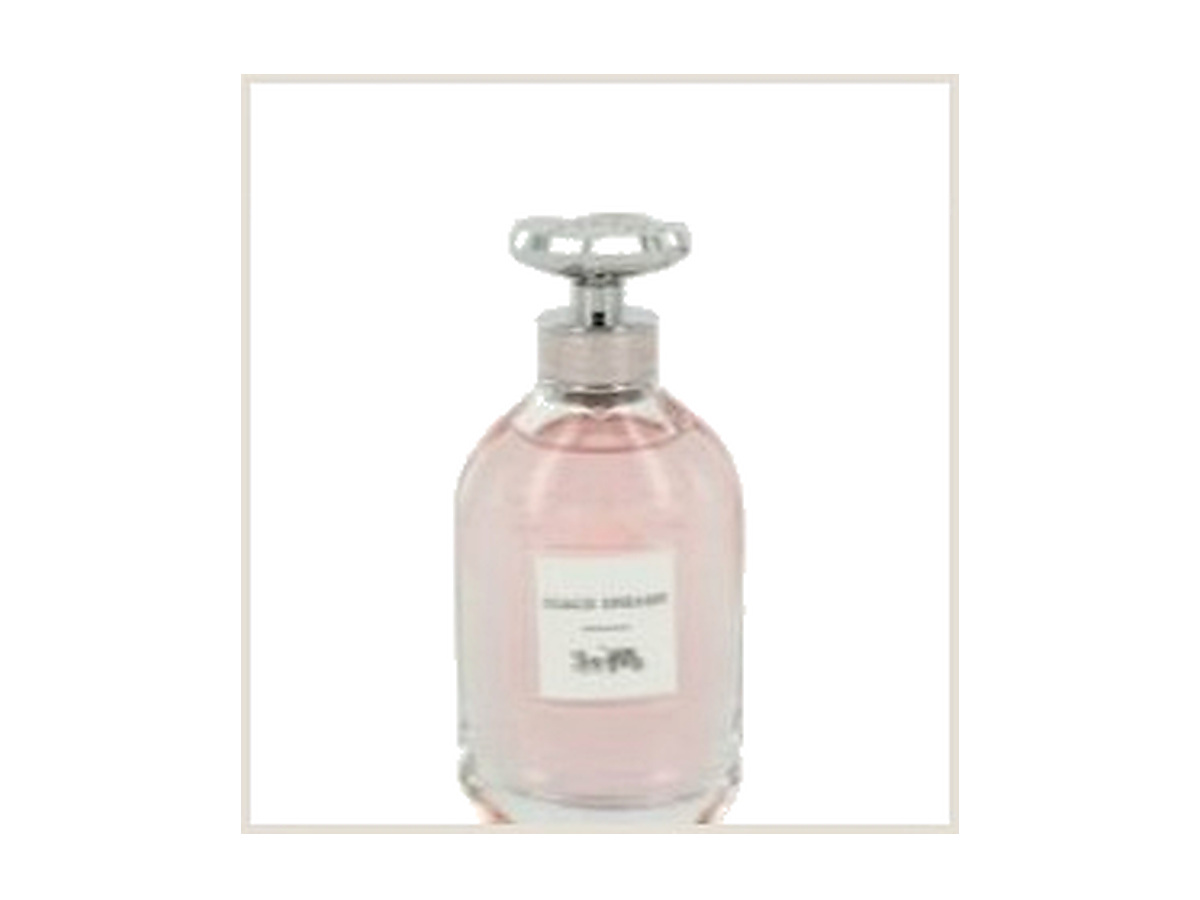
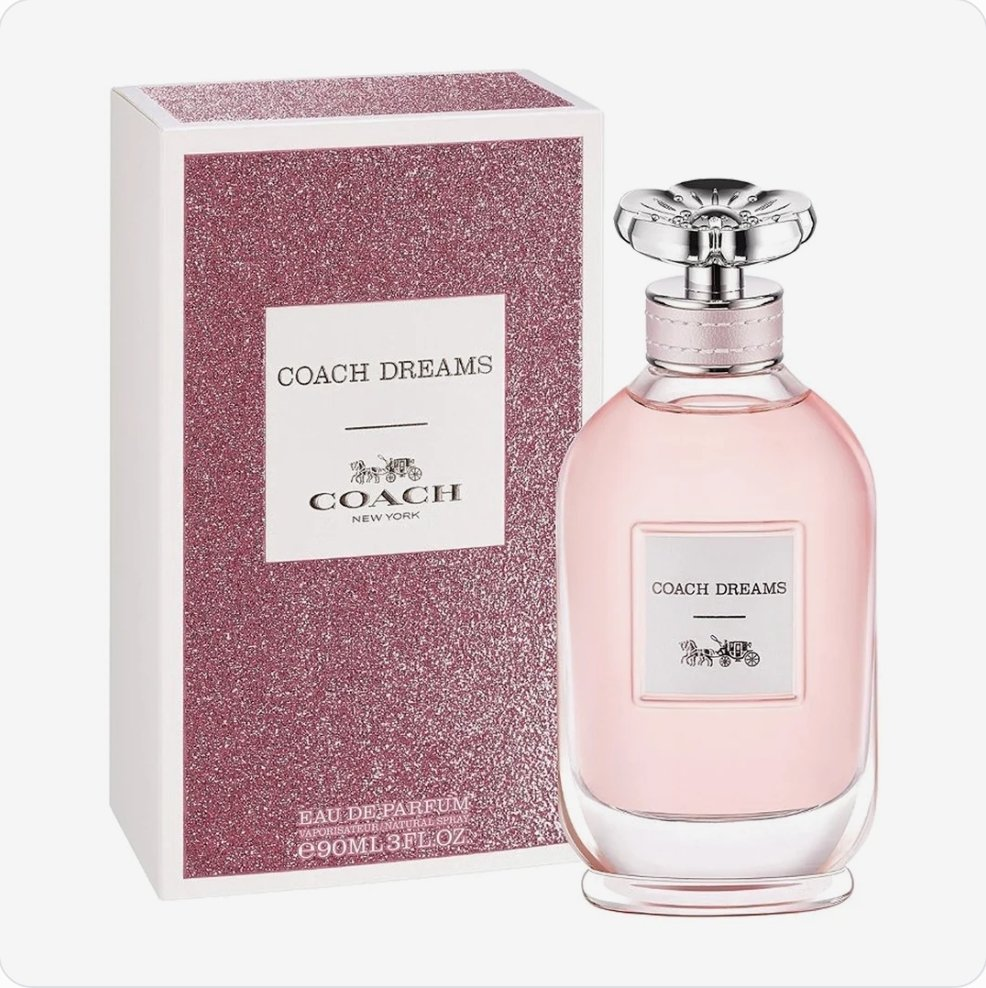
Replace Coach Dreams Tester photos with Boss's new shots

diff --git a/index.html b/index.html
@@ -728,7 +728,7 @@
         { name:'Versace Eros Cologne for Men (Tester)', niche:'Versace · Men · 3.4 oz EDT · Tester', direction:'Mint, green apple and vanilla woods', description:'Tester version: the authentic 3.4 oz fragrance supplied in tester packaging rather than standard retail presentation. Bright mint and apple lead into aromatic warmth, vanilla and smooth woods.', category:'fresh', images:[{src:'assets/product-versace-eros-tester.jpg', alt:'Versace Eros tester bottle and tester box — clean packshot'},{src:'assets/gallery-versace-eros-1.jpg', alt:'Versace Eros Cologne for Men (Tester) — customer photo 1'},{src:'assets/gallery-versace-eros-2.jpg', alt:'Versace Eros Cologne for Men (Tester) — customer photo 2'}], price:55, decantPrice:14, originalPrice:68, featured:37 , paymentLink:'https://buy.stripe.com/cNi00laiZaAc6BY7Kzf7i0K'},
         { name:'Afnan Supremacy Collector\'s Edition Perfume for Unisex', niche:'Afnan · Unisex · 3.4 oz EDP', direction:'Bright fruit, saffron and smoky woods', description:'Vibrant fruit and saffron open with clarity before smoky woods and amber bring depth. Polished and assertive with a versatile unisex profile.', category:'woody', images:[{src:'assets/product-afnan-supremacy-collectors.jpg', alt:'Afnan Supremacy Collector’s Edition bottle and box — clean packshot'},{src:'assets/gallery-afnan-supremacy-collectors-edition-1.jpg', alt:'Afnan Supremacy Collector’s Edition Perfume for Unisex — customer photo 1'},{src:'assets/gallery-afnan-supremacy-collectors-edition-2.jpg', alt:'Afnan Supremacy Collector’s Edition Perfume for Unisex — customer photo 2'}], price:59, decantPrice:15, originalPrice:72, featured:38 , paymentLink:'https://buy.stripe.com/5kQfZj1Mt5fS5xUaWLf7i0T'},
         { name:'Versace Dylan Blue Cologne for Men', niche:'Versace · Men · 3.4 oz EDT', direction:'Aquatic citrus, incense and dark musk', description:'Fresh aquatic citrus and aromatics are sharpened by incense, woods and dark musk. Clean and confident with enough depth for day or night.', category:'fresh', images:[{src:'assets/product-versace-dylan-blue.jpg', alt:'Versace Dylan Blue dark blue bottle — clean packshot'},{src:'assets/gallery-versace-dylan-blue-1.jpg', alt:'Versace Dylan Blue Cologne for Men — customer photo 1'},{src:'assets/gallery-versace-dylan-blue-2.jpg', alt:'Versace Dylan Blue Cologne for Men — customer photo 2'},{src:'assets/gallery-versace-dylan-blue-3.jpg', alt:'Versace Dylan Blue Cologne for Men — customer photo 3'},{src:'assets/gallery-versace-dylan-blue-4.jpg', alt:'Versace Dylan Blue Cologne for Men — customer photo 4'},{src:'assets/gallery-versace-dylan-blue-5.jpg', alt:'Versace Dylan Blue Cologne for Men — customer photo 5'}], price:68, decantPrice:17, originalPrice:82, featured:39 , paymentLink:'https://buy.stripe.com/eVqdRbdvb8s4aSe4ynf7i0U'},
-        { name:'Coach Dreams Perfume for Women (Tester)', niche:'Coach · Women · 3.0 oz EDP · Tester', direction:'Pear, gardenia and warm woods', description:'Tester version: the authentic 3.0 oz fragrance supplied in tester packaging rather than standard retail presentation. Bright pear and gardenia rest on a warm, softly woody base.', category:'fresh', images:[{src:'assets/product-coach-dreams-tester.jpg', alt:'Coach Dreams tester bottle — clean packshot'}], price:47, decantPrice:12, originalPrice:58, featured:40 , paymentLink:'https://buy.stripe.com/bJe5kFdvb23GaSee8Xf7i0V'},
+        { name:'Coach Dreams Perfume for Women (Tester)', niche:'Coach · Women · 3.0 oz EDP · Tester', direction:'Pear, gardenia and warm woods', description:'Tester version: the authentic 3.0 oz fragrance supplied in tester packaging rather than standard retail presentation. Bright pear and gardenia rest on a warm, softly woody base.', category:'fresh', images:[{src:'assets/product-coach-dreams-tester.jpg', alt:'Coach Dreams tester bottle and box on a clean white background'},{src:'assets/product-coach-dreams-tester-2.jpg', alt:'Coach Dreams tester bottle on a clean white background'},{src:'assets/product-coach-dreams-tester-3.jpg', alt:'Coach Dreams tester bottle in a styled fruit composition'}], price:47, decantPrice:12, originalPrice:58, featured:40 , paymentLink:'https://buy.stripe.com/bJe5kFdvb23GaSee8Xf7i0V'},
         { name:'Dolce & Gabbana Devotion Intense Perfume for Women', niche:'Dolce & Gabbana · Women · 1.7 oz EDP Intense', direction:'Candied lemon, orange blossom and warm vanilla', description:'Sparkling candied lemon melts into creamy orange blossom over a rich vanilla base. Warm, radiant and unmistakably feminine.', category:'sweet', images:[{src:'assets/product-dolce-gabbana-devotion.jpg', alt:'Dolce & Gabbana Devotion bottle and box — clean packshot'}], price:45, featured:41 , paymentLink:'https://buy.stripe.com/6oU5kFezf4bO5xUfd1f7i0G'}
       ];
       var favoriteNames = {};
